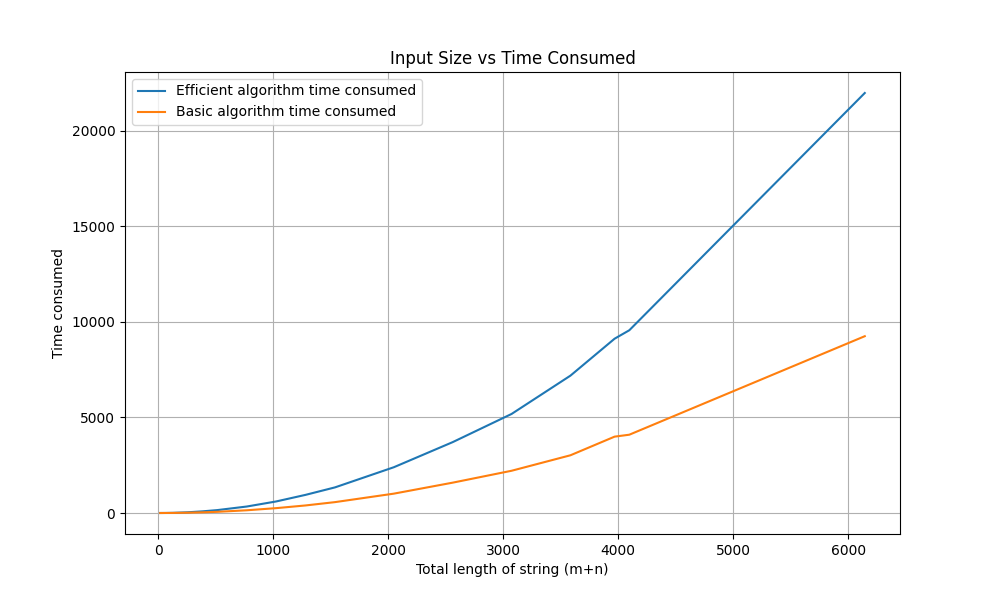
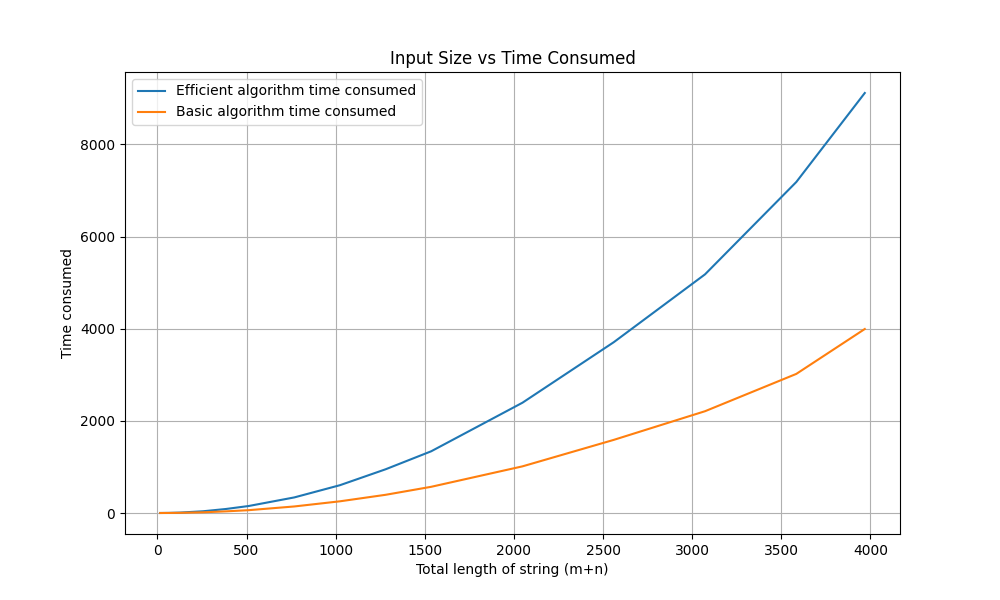
Makes correction in graph

diff --git a/Analysis/graphPlotting.py b/Analysis/graphPlotting.py
@@ -9,7 +9,7 @@ def readFile(f):
     for line in lines:
 
         # taking only first 15 output
-        if (k > 16):
+        if (k >= 15):
             break
 
         if (line[-1] == '\n'):
